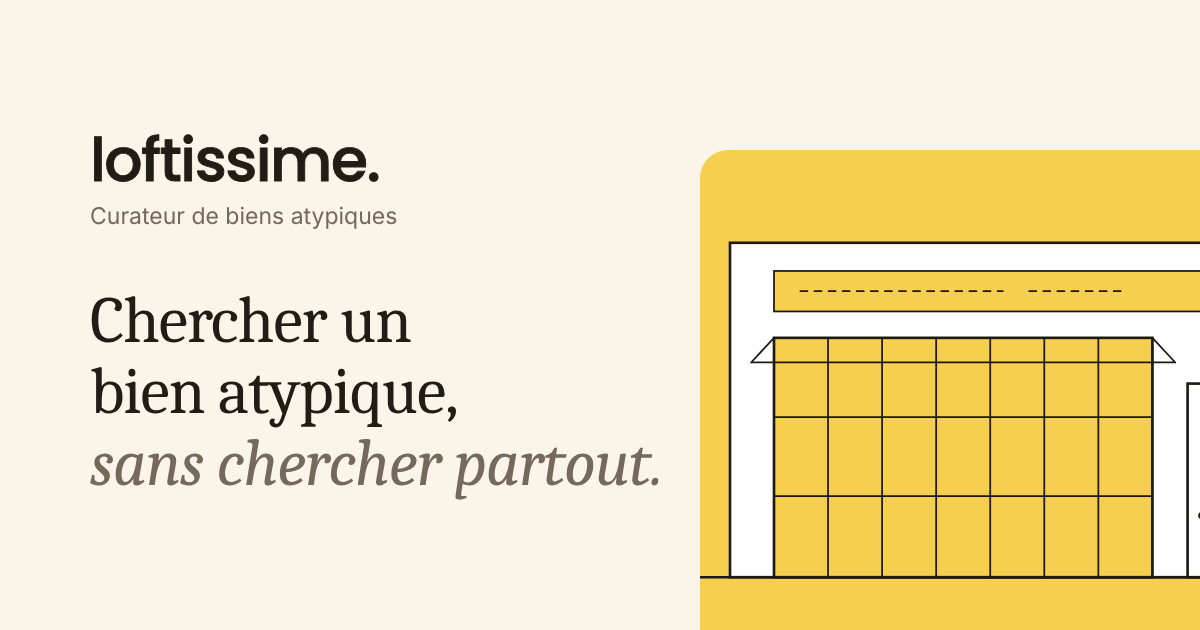
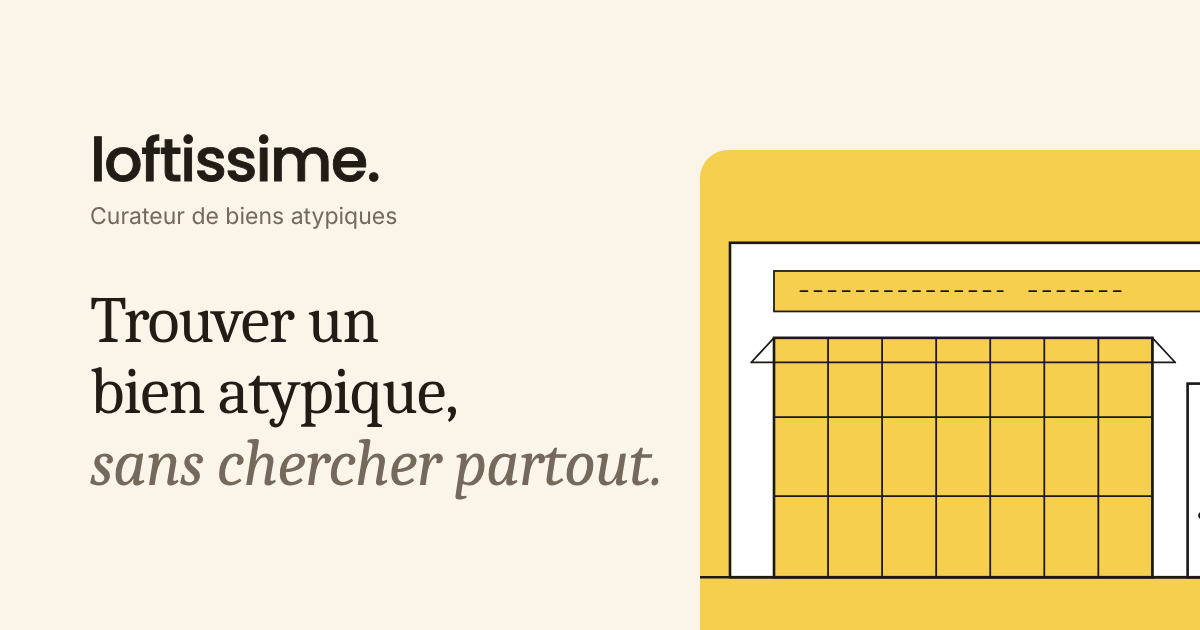
Accueil : « Trouver un bien atypique, sans chercher partout. »
Claude-Session: https://claude.ai/code/session_015aKJiDLUy7h6cRtFn1LWuo

Changed region(s): [[0.0617, 0.4524, 0.3392, 0.5429]]

diff --git a/frontend/app/HeroTitle.tsx b/frontend/app/HeroTitle.tsx
@@ -4,7 +4,7 @@ export default function HeroTitle() {
   return (
     <>
       <h1 className="text-[2.4rem] md:text-[3.25rem] xl:whitespace-nowrap font-serif tracking-tight text-stone-900 leading-[1.1] [text-wrap:balance]">
-        Chercher un bien atypique, <span className="italic text-stone-500">sans chercher partout.</span>
+        Trouver un bien atypique, <span className="italic text-stone-500">sans chercher partout.</span>
       </h1>
       <p className="mt-4 text-base md:text-lg font-light leading-relaxed text-stone-600 [text-wrap:balance]">
         Lofts, ateliers d’artistes, toits-terrasses, biens de caractère : tous réunis sur un seul site.
